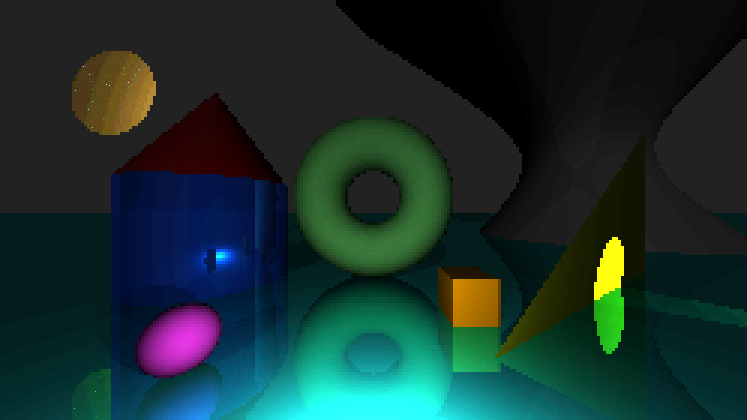
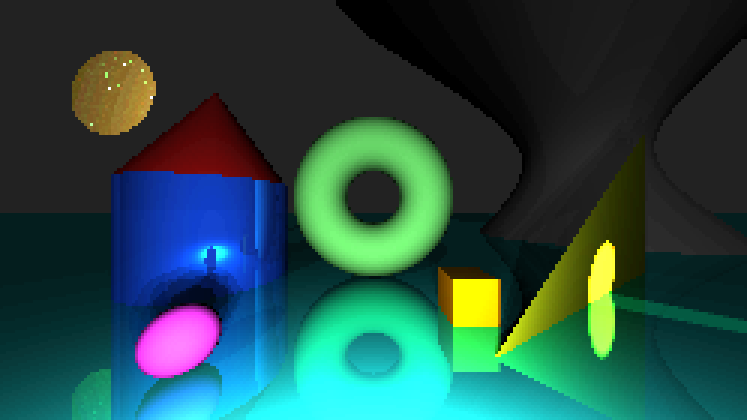
Update readme, default image and scene.json

diff --git a/README.md b/README.md
@@ -1,12 +1,13 @@
 ![](docs/Images/Demo/default.png)
 
-# PixelRay is a pixel-styled cross-compatible ray tracer
+# A pixel-themed, cross-compatible ray tracer in C#
 
+Some demo images, both old and new, can be found [here](docs/Images/Demo/)
 
 ## Table of contents
 
-- [<u>CLI</u>](#cli)
-- [<u>Scenes</u>](#scenes)
+- [<u>How to use</u>](#how-to-use)
+- [<u>Scene</u>](#scene)
     - [<u>Rendering</u>](#rendering)
     - [<u>Objects</u>](#objects)
     - [<u>Materials</u>](#materials)
@@ -14,7 +15,7 @@
 - [<u>Building from source</u>](#building-from-source)
 
 
-## CLI
+## How to use
 
 Every command requires at least two things: scene file path + either
 
@@ -33,9 +34,10 @@ Every command requires at least two things: scene file path + either
     ```
 
 Output = store image in .png or .ppm format  
-Preview = display image in a new window, loading it gradually (higher values add delay, 0 = loads as quickly as possible) then flushing data after window is closed
+Preview = display image in a SILK.NET gui window, loading it gradually (higher values add delay, 0 = loads as quickly as 
+possible) then flushing data after window is closed
 
-Previewing can be of course done while still producing an output:
+Of course previewing can be done with outputs as well:
 
 ```bash
 PixelRay -i scene.json -o output.png -p 0
@@ -47,88 +49,95 @@ PixelRay -i scene.json -o output.png -p 0
     - alternative: `--image <path>`
 - `-o <path>`: output file path. Image format is either "png" or "ppm"
     - alternative: `--output <path>`
-- `-p <delay>`: produce a preview image with SILK.NET library. Delay displays image gradually, loading pixels left to right, row by row. 0 = no delay.
+- `-p <delay>`: produce a preview image with SILK.NET library. Delay displays image gradually, loading pixels left to 
+right, row by row. 0 = no delay.
     - alternative: `--preview <delay>`
 - `--debug <mode>`: applies a debug mode to output/preview. Has following modes:
     - `normals` = color objects based on normal directions. Red = x, Green = y, Blue = z
-    - `distance` = color objects based on how far they're from camera. Uses gray scale: closer objects are white/light gray and distant objects become darker. Missed rays are red dots.
+    - `distance` = color objects based on how far they're from camera. Uses gray scale: closer objects are white/light 
+    gray and distant objects become darker. Missed rays are red dots.
     - `id` = each object gets random color
 
 
-## Scenes
+## Scene
 
 Scenes use **json** format.
 Default scene file can be found [here](docs/scene.json).
 
+
 ### Rendering
 
 #### camera
-- origin/eye point
-- lookAt direction
-- up axis (useful for rotating)
-- field of view
+- `origin` origin/eye point
+- `lookAt` camera direction
+- `up` upward axis (useful for rotating)
+- `fov` field of view
 
 #### render
 
-- threading (for rendering, disabled by default)
-- width
-- height
-- upscaling factor
-- color palette (default is no palette)
-- lighting bands (quantization)
-- light ray bounces
-- dithering (ordered)
-- dithering quantization levels
-- dithering dimension (Bayer matrix: either 4 or 8)
+- `threading` for parallelized rendering, disabled by default
+- `width` image width
+- `height` image height
+- `upScaledFactor` image upscaling factor
+- `palette` color palette, default is [] which means no palette
+- `lightingBands` lighting quantization levels
+- `maxBounces` lighting ray bounces (if material if reflective)
+- `dithering` enable orderer dithering
+- `ditherLevels` dithering quantization levels
+- `ditherDimension` Bayer matrix dimension: either 4 or 8
 
 
 ### Objects
 
 #### primitives:
-- Sphere
-- Disc
-- Plane
-- Triangle
-- Cylinder
-- Cone
-- Torus
-- Quadric (general equation)
-- AABox (axis-aligned box, cannot be rotated)
+- `sphere` unit sphere
+- `disc` unit disc pointing at (0, 1, 0)
+- `plane` plane pointing at (0, 1, 0)
+- `triangle` triangle defined by its three vertices
+- `cylinder` bottom cap unit circle at (0, 0, 0), top cap unit circle (0, 1, 0)
+- `cone` apex at (0, 0, 0), axis normal (0, 1, 0) which means base is unit circle with base (0, 1, 0)
+- `torus` torus pointing at (0, 1, 0), requires minor and major radii
+- `quadric` defined by quadric equation parameters
+- `AAbox` axis-aligned box, cannot be rotated
+
+Use transforms to change object geometry
 
 #### transforms
-- rotation 
-    - 4D vector [x, y, z, w] where (x,y,z) is the rotation axis and w the angle (in degrees)
-- position (e.g. translation/shifting)
-- scaling (both uniform and non-uniform)
+- `position` translation/shifting
+- `rotation` 4D vector [x, y, z, w] where (x,y,z) is the rotation axis and w the angle (degrees)
+- `scaling` both uniform and non-uniform
 
 
 ### Materials
-- surface (general material with reflection and roughness controls)
-- mirror
+- `surface` general surface material with reflection and roughness controls
+- `mirror`
 
 
 ### Lighting
-- ambient
-- directional
-- point (emits radially)
-- spot (spotlight, angle defined in degrees)
+- `ambient`
+- `directional`
+- `point` emits radially
+- `spot` spotlight, outer/inner angle uses degrees
 
 #### shadows
-- hard shadows
-- very simple soft shadows (no sampling)
+- hard shadows (lightRadius = 0)
+- soft shadows (lightRadius > 0)
+    - follows Monte Carlo integration logic, but instead of random samples uses fixed unit disc offsets that scale with radius
+    - simple: requires tuning with radius+shadow bands, but shadows can still look quite rough. Some improvements could be done in the future
 
 
 ## Pixel-look
 
-To enforce pixelated look:
+To enforce pixelated theme:
 
 - low resolutions only, use nearest-neighbor upscaling for higher res
-- no anti-aliasing/resampling, only one ray per pixel
 - lighting quantization
-- keep reflection bounces low (1-3 is good) + bounce to a single direction (projected or sampled)
+- hard shadows + simple soft shadow logic: radius and quantization
+- keep reflection bounces low (0-3)  
+    - can always use ambient/directional lights if scene doesn't allow proper bouncing e.g. lack of reflective surfaces or open scene where rays bounce to infinity
 - ordered dithering
-- hard shadows + simple soft shadows
-- custom color palettes
+- custom color palettes. Works just fine without, but these can certainly change the aesthetics a lot
+- no anti-aliasing/resampling
 
 ## Building from source
 
@@ -150,15 +159,17 @@ For example Windows 64-bit would be
 
 There are generally two ways to build into an executable:
 1. Self-contained exe with glfw3.dll. This dll is SILK.NET native dependency and needs be included
-    - large exe (~37 MB) but runs on its own, no .NET runtime required
+    - large exe (~37 MB) but runs on its own, no .NET runtime required except for building
 2. minimal exe + DLLs 
-    - very small, but **requires .NET 10.0 Runtime** which can be downloaded 
+    - very small, but **requires .NET 10.0 Runtime** installation which can be downloaded 
     [here](https://dotnet.microsoft.com/en-us/download)
 
 Instead of modifying *PixelRay.csproj* for each, both can be done by passing additional args.
 
-- for args specification check [this](https://learn.microsoft.com/en-us/dotnet/core/deploying/single-file/overview?tabs=cli)
-- examples below use Windows as runtime; for other identifiers, see [this](https://learn.microsoft.com/en-us/dotnet/core/rid-catalog#known-rids).
+- for args specification check 
+[this](https://learn.microsoft.com/en-us/dotnet/core/deploying/single-file/overview?tabs=cli)
+- examples below use Windows as runtime; for other identifiers, see 
+[this](https://learn.microsoft.com/en-us/dotnet/core/rid-catalog#known-rids).
 
 #### Powershell
 
@@ -173,6 +184,8 @@ Instead of modifying *PixelRay.csproj* for each, both can be done by passing add
     ```
 
 #### Bash
+
+Same as Windows (here backward slashes used for compact presentation)
 
 1. Self-contained
     ```bash
@@ -190,4 +203,23 @@ Instead of modifying *PixelRay.csproj* for each, both can be done by passing add
       -p:EnableCompressionInSingleFile=true
     ```
 
-Release build can be found in "bin/Release/net10.0/win-x64/publish" or similar.
+#### Output
+
+Release build can be found in "PixelRay/bin/Release/net10.0/win-x64/publish" or similar.
+
+
+## Future additions
+
+The goal of this project is not to become become a large, heavily optimized ray/path tracing tool. Yet it should still have good amount of customization options so here's a short list of what could be added:
+
+- build-in color palettes + read palettes from files (so scene.json would only require the file path instead of copy-pasting all the colors)
+- depth of field/blur in some form
+- material/medium like glass, matte, lambertian, fog/gas
+    - maybe eventually emissive materials
+- objects:
+    - shaders/meshes for custom shapes. Also some kind of preview tool could be useful
+    - maybe some new primitives
+    - maybe new transforms like shear
+- performance (at least BHV, some minor optimizations here and there)
+- scripting support via Lua language (complex scene creation + animation support)
+- unit tests (better later than never: current ones are outdated)